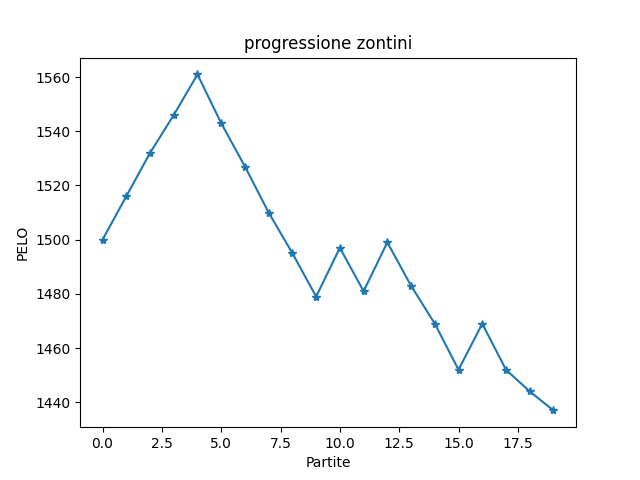
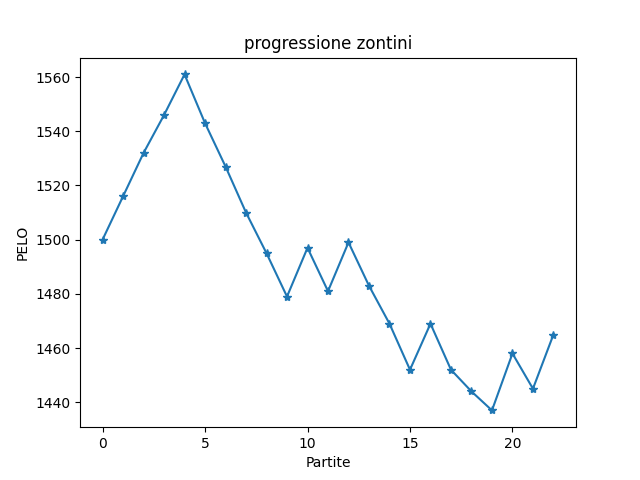
Add files via upload

diff --git a/index.htm b/index.htm
@@ -2,7 +2,7 @@
 <html>
 <link rel='stylesheet' href='style.css'>
 <center><body><br><h1 style='color:blue;'><big>TORNEO ESTATE 2024</big></h1></body><title>Classifica</title>
-<h5>Ultimo aggiornamento: 2024-06-17 alle 16:56:01</h5>
+<h5>Ultimo aggiornamento: 2024-06-20 alle 16:26:48</h5>
 <br><br><h1>Classifica</h1><table border='1' class='dataframe'>
 <thead>
 <tr 'text-align: right;'>
@@ -11,31 +11,31 @@
 </thead>
 <tbody><tr>
 <td>1</td><td>caprile</td>
-<td>1655</td><td><b><center><a href = 'statistiche_caprile.htm'>I</a></center></h3></b>
+<td>1589</td><td><b><center><a href = 'statistiche_caprile.htm'>I</a></center></h3></b>
 </tr>
 <tr>
 <td>2</td><td>devigili</td>
 <td>1539</td><td><b><center><a href = 'statistiche_devigili.htm'>I</a></center></h3></b>
 </tr>
 <tr>
-<td>3</td><td>tronza</td>
+<td>3</td><td>castellani</td>
+<td>1502</td><td><b><center><a href = 'statistiche_castellani.htm'>I</a></center></h3></b>
+</tr>
+<tr>
+<td>4</td><td>tronza</td>
 <td>1485</td><td><b><center><a href = 'statistiche_tronza.htm'>I</a></center></h3></b>
 </tr>
 <tr>
-<td>4</td><td>scaglia</td>
+<td>5</td><td>scaglia</td>
 <td>1471</td><td><b><center><a href = 'statistiche_scaglia.htm'>I</a></center></h3></b>
 </tr>
 <tr>
-<td>5</td><td>castellani</td>
-<td>1458</td><td><b><center><a href = 'statistiche_castellani.htm'>I</a></center></h3></b>
-</tr>
-<tr>
 <td>6</td><td>zontini</td>
-<td>1437</td><td><b><center><a href = 'statistiche_zontini.htm'>I</a></center></h3></b>
+<td>1465</td><td><b><center><a href = 'statistiche_zontini.htm'>I</a></center></h3></b>
 </tr>
 </table>
 <br><br><center><h1><b>Statistiche Globali</b></h1></center><center><table id='statistiche' border='1' class='dataframe'>
-<tr><td><b>Più partite fatte</b></td><td>castellani (38)</td></tr>
+<tr><td><b>Più partite fatte</b></td><td>castellani (44)</td></tr>
 <tr><td><b>Più partite vinte</b></td><td>caprile (23)</td></tr>
-<tr><td><b>Percentuale di vittorie più alta</b></td><td>caprile (76.7%)</td></tr>
+<tr><td><b>Percentuale di vittorie più alta</b></td><td>devigili (75.0%)</td></tr>
 </table><br><br><br><br><br><h2><center><a href='storico_partite.html'>Storico partite</a></center></h2><br><br><br><br></html>

diff --git a/statistiche_castellani.htm b/statistiche_castellani.htm
@@ -5,17 +5,17 @@
 <h1><center>Statistiche: castellani</center></h1>
 <center><img src='castellani.png'></center>
 </head><br><br><center><table id='statistiche' border='1' class='dataframe'>
-<tr><td><b>Partite fatte</b></td><td>38</td></tr>
-<tr><td><b>Partite vinte</b></td><td>14 (36.8%)</td></tr>
+<tr><td><b>Partite fatte</b></td><td>44</td></tr>
+<tr><td><b>Partite vinte</b></td><td>18 (40.9%)</td></tr>
 <tr><td><b>Record PELO</b></td><td>1545</td></tr>
-<tr><td><b>Best streak</b></td><td>3</td></tr>
-<tr><td><b>Current streak</b></td><td>1</td></tr>
-<tr><td><b>Punti fatti</b></td><td>335</td></tr>
-<tr><td><b>Punti subiti</b></td><td>389</td></tr>
+<tr><td><b>Best streak</b></td><td>4</td></tr>
+<tr><td><b>Current streak</b></td><td>0</td></tr>
+<tr><td><b>Punti fatti</b></td><td>398</td></tr>
+<tr><td><b>Punti subiti</b></td><td>447</td></tr>
 </table></center></body><br><br><center><table id='statistiche' border='1' class='dataframe'>
-<br><h2>Statistiche contro gli altri giocatori</h2><tr><td><b>caprile</b></td><td><b>26.9% (<span style='color:green'>7</span> / <span style='color:red'>19</span>  / 26)</b></td></tr>
+<br><h2>Statistiche contro gli altri giocatori</h2><tr><td><b>caprile</b></td><td><b>34.4% (<span style='color:green'>10</span> / <span style='color:red'>19</span>  / 29)</b></td></tr>
 <tr><td><b>devigili</b></td><td><b>0.0% (<span style='color:green'>0</span> / <span style='color:red'>2</span>  / 2)</b></td></tr>
 <tr><td><b>tronza</b></td><td><b>N/A% (<span style='color:green'>0</span> / <span style='color:red'>0</span>  / 0)</b></td></tr>
 <tr><td><b>scaglia</b></td><td><b>N/A% (<span style='color:green'>0</span> / <span style='color:red'>0</span>  / 0)</b></td></tr>
-<tr><td><b>zontini</b></td><td><b>70.0% (<span style='color:green'>7</span> / <span style='color:red'>3</span>  / 10)</b></td></tr>
+<tr><td><b>zontini</b></td><td><b>61.5% (<span style='color:green'>8</span> / <span style='color:red'>5</span>  / 13)</b></td></tr>
 <br><br><br></html>

diff --git a/statistiche_zontini.htm b/statistiche_zontini.htm
@@ -5,17 +5,17 @@
 <h1><center>Statistiche: zontini</center></h1>
 <center><img src='zontini.png'></center>
 </head><br><br><center><table id='statistiche' border='1' class='dataframe'>
-<tr><td><b>Partite fatte</b></td><td>19</td></tr>
-<tr><td><b>Partite vinte</b></td><td>7 (36.8%)</td></tr>
+<tr><td><b>Partite fatte</b></td><td>22</td></tr>
+<tr><td><b>Partite vinte</b></td><td>9 (40.9%)</td></tr>
 <tr><td><b>Record PELO</b></td><td>1561</td></tr>
 <tr><td><b>Best streak</b></td><td>4</td></tr>
-<tr><td><b>Current streak</b></td><td>0</td></tr>
-<tr><td><b>Punti fatti</b></td><td>172</td></tr>
-<tr><td><b>Punti subiti</b></td><td>185</td></tr>
+<tr><td><b>Current streak</b></td><td>1</td></tr>
+<tr><td><b>Punti fatti</b></td><td>202</td></tr>
+<tr><td><b>Punti subiti</b></td><td>214</td></tr>
 </table></center></body><br><br><center><table id='statistiche' border='1' class='dataframe'>
 <br><h2>Statistiche contro gli altri giocatori</h2><tr><td><b>caprile</b></td><td><b>0.0% (<span style='color:green'>0</span> / <span style='color:red'>4</span>  / 4)</b></td></tr>
 <tr><td><b>devigili</b></td><td><b>50.0% (<span style='color:green'>1</span> / <span style='color:red'>1</span>  / 2)</b></td></tr>
+<tr><td><b>castellani</b></td><td><b>38.4% (<span style='color:green'>5</span> / <span style='color:red'>8</span>  / 13)</b></td></tr>
 <tr><td><b>tronza</b></td><td><b>100.0% (<span style='color:green'>1</span> / <span style='color:red'>0</span>  / 1)</b></td></tr>
 <tr><td><b>scaglia</b></td><td><b>100.0% (<span style='color:green'>2</span> / <span style='color:red'>0</span>  / 2)</b></td></tr>
-<tr><td><b>castellani</b></td><td><b>30.0% (<span style='color:green'>3</span> / <span style='color:red'>7</span>  / 10)</b></td></tr>
 <br><br><br></html>

diff --git a/statistiche_caprile.htm b/statistiche_caprile.htm
@@ -5,17 +5,17 @@
 <h1><center>Statistiche: caprile</center></h1>
 <center><img src='caprile.png'></center>
 </head><br><br><center><table id='statistiche' border='1' class='dataframe'>
-<tr><td><b>Partite fatte</b></td><td>30</td></tr>
-<tr><td><b>Partite vinte</b></td><td>23 (76.6%)</td></tr>
+<tr><td><b>Partite fatte</b></td><td>33</td></tr>
+<tr><td><b>Partite vinte</b></td><td>23 (69.6%)</td></tr>
 <tr><td><b>Record PELO</b></td><td>1680</td></tr>
 <tr><td><b>Best streak</b></td><td>8</td></tr>
 <tr><td><b>Current streak</b></td><td>0</td></tr>
-<tr><td><b>Punti fatti</b></td><td>319</td></tr>
-<tr><td><b>Punti subiti</b></td><td>251</td></tr>
+<tr><td><b>Punti fatti</b></td><td>347</td></tr>
+<tr><td><b>Punti subiti</b></td><td>285</td></tr>
 </table></center></body><br><br><center><table id='statistiche' border='1' class='dataframe'>
 <br><h2>Statistiche contro gli altri giocatori</h2><tr><td><b>devigili</b></td><td><b>N/A% (<span style='color:green'>0</span> / <span style='color:red'>0</span>  / 0)</b></td></tr>
+<tr><td><b>castellani</b></td><td><b>65.5% (<span style='color:green'>19</span> / <span style='color:red'>10</span>  / 29)</b></td></tr>
 <tr><td><b>tronza</b></td><td><b>N/A% (<span style='color:green'>0</span> / <span style='color:red'>0</span>  / 0)</b></td></tr>
 <tr><td><b>scaglia</b></td><td><b>N/A% (<span style='color:green'>0</span> / <span style='color:red'>0</span>  / 0)</b></td></tr>
-<tr><td><b>castellani</b></td><td><b>73.0% (<span style='color:green'>19</span> / <span style='color:red'>7</span>  / 26)</b></td></tr>
 <tr><td><b>zontini</b></td><td><b>100.0% (<span style='color:green'>4</span> / <span style='color:red'>0</span>  / 4)</b></td></tr>
 <br><br><br></html>

diff --git a/statistiche_devigili.htm b/statistiche_devigili.htm
@@ -14,8 +14,8 @@
 <tr><td><b>Punti subiti</b></td><td>25</td></tr>
 </table></center></body><br><br><center><table id='statistiche' border='1' class='dataframe'>
 <br><h2>Statistiche contro gli altri giocatori</h2><tr><td><b>caprile</b></td><td><b>N/A% (<span style='color:green'>0</span> / <span style='color:red'>0</span>  / 0)</b></td></tr>
+<tr><td><b>castellani</b></td><td><b>100.0% (<span style='color:green'>2</span> / <span style='color:red'>0</span>  / 2)</b></td></tr>
 <tr><td><b>tronza</b></td><td><b>N/A% (<span style='color:green'>0</span> / <span style='color:red'>0</span>  / 0)</b></td></tr>
 <tr><td><b>scaglia</b></td><td><b>N/A% (<span style='color:green'>0</span> / <span style='color:red'>0</span>  / 0)</b></td></tr>
-<tr><td><b>castellani</b></td><td><b>100.0% (<span style='color:green'>2</span> / <span style='color:red'>0</span>  / 2)</b></td></tr>
 <tr><td><b>zontini</b></td><td><b>50.0% (<span style='color:green'>1</span> / <span style='color:red'>1</span>  / 2)</b></td></tr>
 <br><br><br></html>

diff --git a/statistiche_tronza.htm b/statistiche_tronza.htm
@@ -15,7 +15,7 @@
 </table></center></body><br><br><center><table id='statistiche' border='1' class='dataframe'>
 <br><h2>Statistiche contro gli altri giocatori</h2><tr><td><b>caprile</b></td><td><b>N/A% (<span style='color:green'>0</span> / <span style='color:red'>0</span>  / 0)</b></td></tr>
 <tr><td><b>devigili</b></td><td><b>N/A% (<span style='color:green'>0</span> / <span style='color:red'>0</span>  / 0)</b></td></tr>
-<tr><td><b>scaglia</b></td><td><b>N/A% (<span style='color:green'>0</span> / <span style='color:red'>0</span>  / 0)</b></td></tr>
 <tr><td><b>castellani</b></td><td><b>N/A% (<span style='color:green'>0</span> / <span style='color:red'>0</span>  / 0)</b></td></tr>
+<tr><td><b>scaglia</b></td><td><b>N/A% (<span style='color:green'>0</span> / <span style='color:red'>0</span>  / 0)</b></td></tr>
 <tr><td><b>zontini</b></td><td><b>0.0% (<span style='color:green'>0</span> / <span style='color:red'>1</span>  / 1)</b></td></tr>
 <br><br><br></html>

diff --git a/statistiche_scaglia.htm b/statistiche_scaglia.htm
@@ -15,7 +15,7 @@
 </table></center></body><br><br><center><table id='statistiche' border='1' class='dataframe'>
 <br><h2>Statistiche contro gli altri giocatori</h2><tr><td><b>caprile</b></td><td><b>N/A% (<span style='color:green'>0</span> / <span style='color:red'>0</span>  / 0)</b></td></tr>
 <tr><td><b>devigili</b></td><td><b>N/A% (<span style='color:green'>0</span> / <span style='color:red'>0</span>  / 0)</b></td></tr>
-<tr><td><b>tronza</b></td><td><b>N/A% (<span style='color:green'>0</span> / <span style='color:red'>0</span>  / 0)</b></td></tr>
 <tr><td><b>castellani</b></td><td><b>N/A% (<span style='color:green'>0</span> / <span style='color:red'>0</span>  / 0)</b></td></tr>
+<tr><td><b>tronza</b></td><td><b>N/A% (<span style='color:green'>0</span> / <span style='color:red'>0</span>  / 0)</b></td></tr>
 <tr><td><b>zontini</b></td><td><b>0.0% (<span style='color:green'>0</span> / <span style='color:red'>2</span>  / 2)</b></td></tr>
 <br><br><br></html>

diff --git a/storico_partite.html b/storico_partite.html
@@ -193,5 +193,29 @@
 <td>47</td><td>castellani</td>
 <td>caprile</td><td><b><center>11-8</center></h3></b>
 </tr>
+<tr>
+<td>48</td><td>castellani</td>
+<td>caprile</td><td><b><center>11-9</center></h3></b>
+</tr>
+<tr>
+<td>49</td><td>castellani</td>
+<td>caprile</td><td><b><center>11-9</center></h3></b>
+</tr>
+<tr>
+<td>50</td><td>castellani</td>
+<td>caprile</td><td><b><center>12-10</center></h3></b>
+</tr>
+<tr>
+<td>51</td><td>castellani</td>
+<td>zontini</td><td><b><center>9-11</center></h3></b>
+</tr>
+<tr>
+<td>52</td><td>castellani</td>
+<td>zontini</td><td><b><center>11-8</center></h3></b>
+</tr>
+<tr>
+<td>53</td><td>castellani</td>
+<td>zontini</td><td><b><center>9-11</center></h3></b>
+</tr>
 </table></center>
 </html>

diff --git a/style.css b/style.css
@@ -3,7 +3,7 @@ html{
 }
 
 body{
-    margin: 20mm 65mm 20mm 65mm;
+    margin: 20mm 14% 20mm 14%;
     background-color: white;
 }
 
